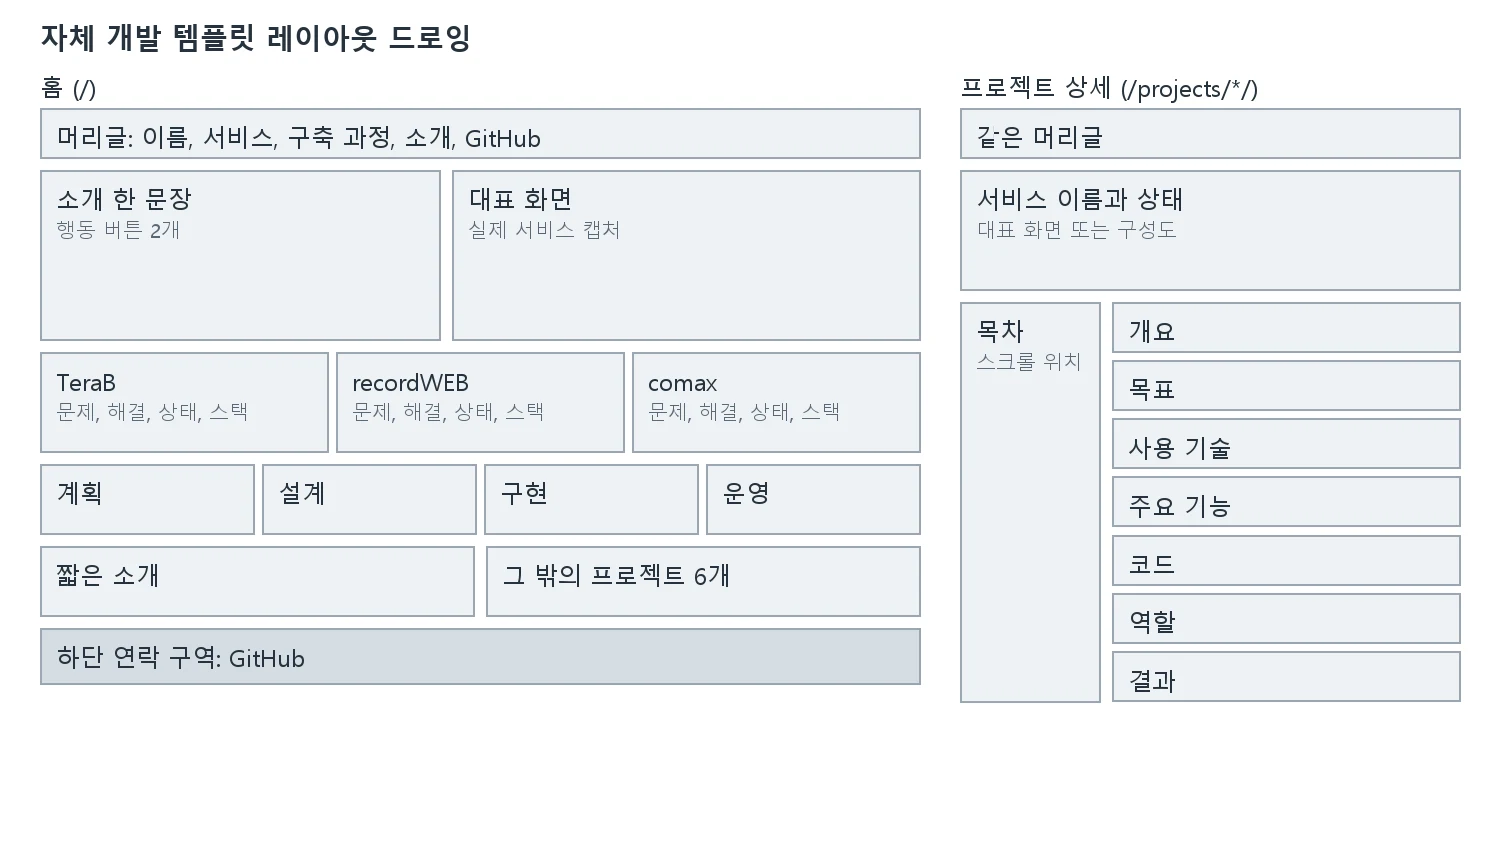
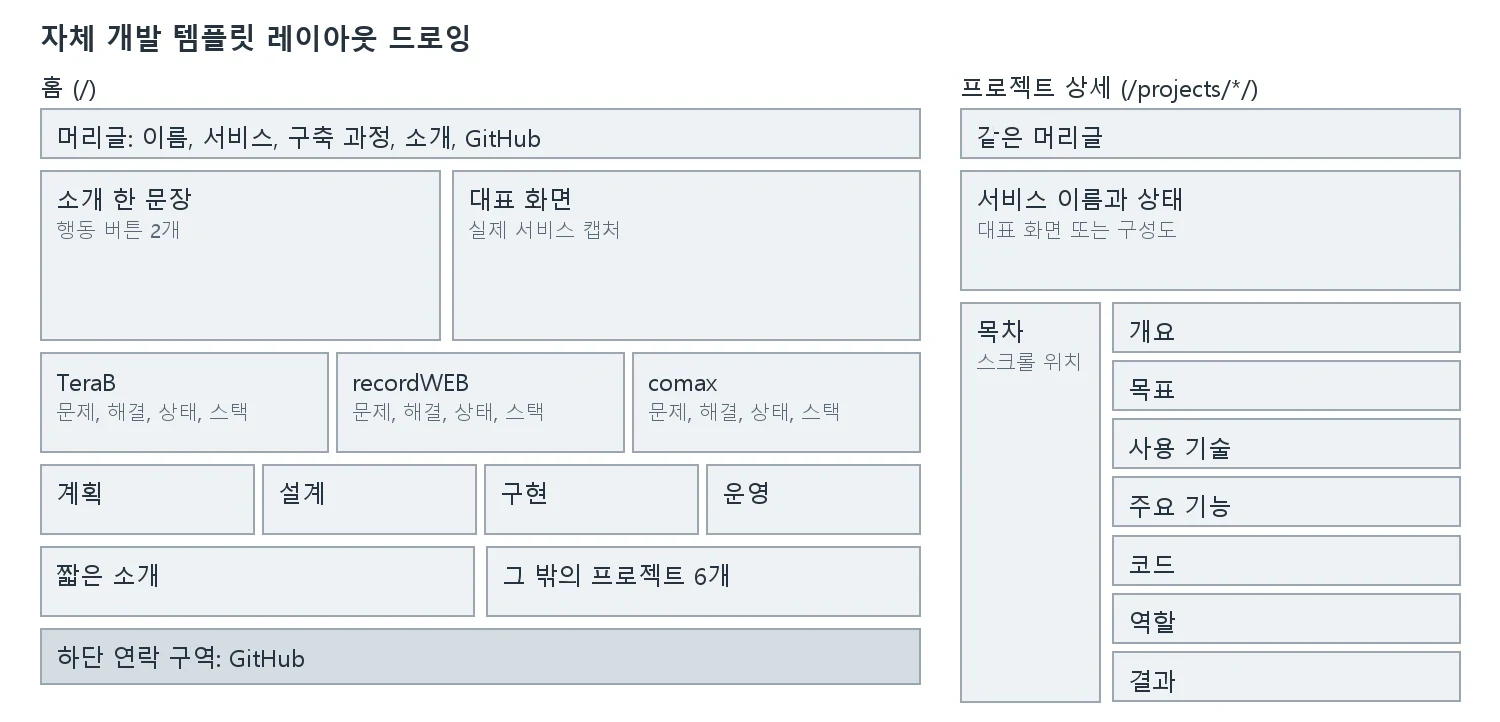
docs: 제작 계획을 제출한 계획수립 시트와 일치시킴
시트를 고친 뒤 페이지를 맞추지 않아 버전관리, 디자인 기준과 템플릿 선정 문구가
서로 달랐다. 상태 열은 시트에 없고 변경 기록과 모순되어 지운다.

- 시트의 측정 기준과 선정 문구를 그대로 옮기고 README 버전 규칙도 맞춤
- 표 낱말이 쪼개지는 원인인 overflow-wrap: anywhere를 표에서만 break-word로 변경
- 드로잉 아래 빈 여백을 잘라 내고 원본 링크 추가
- 머리메뉴를 "제작 계획"으로 통일, 변경 기록 표에 모바일 항목 이름 추가

diff --git a/plan/index.html b/plan/index.html
@@ -31,7 +31,7 @@
       <a href="/#services">서비스</a>
       <a href="/#process">구축 과정</a>
       <a href="/#about">소개</a>
-      <a href="/plan/" aria-current="page">계획</a>
+      <a href="/plan/" aria-current="page">제작 계획</a>
       <a href="https://github.com/idenn207">GitHub</a>
     </nav>
   </header>
@@ -64,8 +64,8 @@
           <tbody>
             <tr><th scope="row">콘텐츠</th><td>서비스 3개를 개요, 목표, 사용 기술, 주요 기능, 코드, 역할, 결과의 7항목(총 21칸)으로 모두 작성, 그 밖의 프로젝트 6개 요약</td></tr>
             <tr><th scope="row">배포</th><td>전체 경로 직접 접속 정상, 깨진 링크와 콘솔 오류 0건</td></tr>
-            <tr><th scope="row">버전관리</th><td>작업을 브랜치와 PR로 관리, 의미 없는 커밋 메시지 0건, a.b.c 형식 버전 태그 사용</td></tr>
-            <tr><th scope="row">디자인 및 UX</th><td>390, 820, 1440px에서 가로 넘침 0건, 모든 페이지의 머리글과 간격 일관 유지</td></tr>
+            <tr><th scope="row">버전관리</th><td>작업을 브랜치와 PR로 관리하고, 발견된 버그는 issue로 관리, Major.Minor.Patch 형식 버전 태그 사용</td></tr>
+            <tr><th scope="row">디자인 및 UX</th><td>390, 820, 1440px에서 반응형 렌더링, 모든 페이지의 머리글과 간격 일관 유지</td></tr>
             <tr><th scope="row">검색 정보</th><td>전체 경로에 title, description, canonical, 이미지 alt 작성</td></tr>
           </tbody>
         </table>
@@ -73,16 +73,16 @@
 
       <section id="template">
         <h2>템플릿 선정</h2>
-        <p><strong>자체 개발 테마</strong>를 선택했습니다. 순수 HTML, CSS, JavaScript로 직접 개발하고, 구조는 홈 1개, 프로젝트 상세 3개, 계획 1개, 404 페이지입니다.</p>
-        <p>랜딩 구성은 rs-team.com의 프로세스 단계와 실적 소개, coupin.io의 문제에서 해결로 이어지는 흐름을 참고하되, 문구와 이미지는 직접 작성합니다.</p>
+        <p><strong>자체 개발 테마</strong>를 선택했습니다. 포트폴리오용 랜딩 페이지이기 때문에 React, API 등의 기능이 필요 없다고 판단해 순수 HTML, CSS, JavaScript로 개발합니다. 구조는 홈 1개, 프로젝트 상세 3개, 계획 1개, 404 페이지입니다.</p>
+        <p>랜딩 구성은 rs-team.com(회사 소개 페이지)의 프로세스 단계와 실적 소개, coupin.io(랜딩 디자인 시스템 참고)의 문제에서 해결로 이어지는 흐름을 참고하되, 문구와 이미지는 직접 작성합니다.</p>
         <figure class="shot">
-          <img src="/assets/img/plan-drawing.webp" width="1500" height="860" loading="lazy" alt="자체 개발 템플릿 레이아웃 드로잉. 홈은 머리글, 소개 한 문장과 대표 화면, 서비스 3개, 구축 과정 4단계, 짧은 소개와 그 밖의 프로젝트 6개, 하단 연락 구역 순서이고, 프로젝트 상세는 머리글, 서비스 이름과 상태, 왼쪽 목차, 오른쪽 7항목 순서다.">
-          <figcaption>계획수립 단계의 레이아웃 드로잉입니다.</figcaption>
+          <a href="/assets/img/plan-drawing.webp"><img src="/assets/img/plan-drawing.webp" width="1500" height="722" loading="lazy" alt="자체 개발 템플릿 레이아웃 드로잉. 홈은 머리글, 소개 한 문장과 대표 화면, 서비스 3개, 구축 과정 4단계, 짧은 소개와 그 밖의 프로젝트 6개, 하단 연락 구역 순서이고, 프로젝트 상세는 머리글, 서비스 이름과 상태, 왼쪽 목차, 오른쪽 7항목 순서다."></a>
+          <figcaption>계획수립 시트에 넣은 레이아웃 드로잉입니다.</figcaption>
         </figure>
-        <h3>선정 사유</h3>
+        <h3>선정 이유</h3>
         <ul>
-          <li>평가 대상이 서비스 소개이므로, 범용 블로그 테마보다 프로젝트를 앞세우는 랜딩 구조가 목적에 맞습니다.</li>
-          <li>교안의 index.html, css, js 구조와 같고 빌드 과정이 없어 main 브랜치 배포로 바로 공개할 수 있습니다.</li>
+          <li>평가 대상이 서비스 소개이므로, 범용 블로그 테마보다 프로젝트를 앞세우는 랜딩 구조가 포트폴리오 목적에 더 맞습니다.</li>
+          <li>index.html, css, js 구조로 빌드 과정이 없어 main 브랜치 배포로 바로 운영할 수 있습니다.</li>
           <li>GitHub Pages는 정적 호스팅이므로 서버 없이 동작하는 구성이 안정적입니다.</li>
           <li>직접 개발하므로 디자인과 페이지 구성을 사이트 전체에서 일관되게 유지할 수 있습니다.</li>
         </ul>
@@ -91,14 +91,14 @@
       <section id="timeline">
         <h2>타임라인</h2>
         <table class="ledger">
-          <thead><tr><th scope="col">주차</th><th scope="col">범위</th><th scope="col">목표</th><th scope="col">완료 기준</th><th scope="col">상태</th></tr></thead>
+          <thead><tr><th scope="col">주차</th><th scope="col">범위</th><th scope="col">목표</th><th scope="col">완료 기준</th></tr></thead>
           <tbody>
-            <tr><th scope="row">8주차</th><td data-label="범위">주제 확정, 드로잉, 계획수립 제출</td><td data-label="목표">계획 확정</td><td data-label="완료 기준">계획수립 시트 제출</td><td data-label="상태">시트 작성 완료</td></tr>
-            <tr><th scope="row">9~10주차</th><td data-label="범위">저장소 정리, 홈과 상세 골격 1차 배포</td><td data-label="목표">v0.1.0</td><td data-label="완료 기준">전체 경로 공개, 교수 및 학생 평가용 URL 등록</td><td data-label="상태">진행 중</td></tr>
-            <tr><th scope="row">11~12주차</th><td data-label="범위">서비스 3개 7항목, 코드, 화면 캡처 작성</td><td data-label="목표">v0.5.0</td><td data-label="완료 기준">21칸 완성, README 작성</td><td data-label="상태">진행 중</td></tr>
-            <tr><th scope="row">13주차</th><td data-label="범위">디자인 통일, 반응형, 검색 정보, 링크 점검</td><td data-label="목표">v0.9.0</td><td data-label="완료 기준">측정 기준 충족</td><td data-label="상태">예정</td></tr>
-            <tr><th scope="row">14주차</th><td data-label="범위">발표, 피드백 수집과 우선순위 정리, 수행 시트 제출</td><td data-label="목표">1차 평가 대응</td><td data-label="완료 기준">피드백 기록 완료</td><td data-label="상태">예정</td></tr>
-            <tr><th scope="row">15주차</th><td data-label="범위">피드백 반영, 자율채점, 최종 제출</td><td data-label="목표">v1.0.0</td><td data-label="완료 기준">최종결과 시트 제출</td><td data-label="상태">예정</td></tr>
+            <tr><th scope="row">8주차</th><td data-label="범위">주제 확정, 드로잉, 계획수립 제출</td><td data-label="목표">계획 확정</td><td data-label="완료 기준">계획수립 시트 제출</td></tr>
+            <tr><th scope="row">9~10주차</th><td data-label="범위">저장소 정리, 홈과 상세 골격 1차 배포</td><td data-label="목표">v0.1.0</td><td data-label="완료 기준">전체 경로 공개, 교수 및 학생 평가용 URL 등록</td></tr>
+            <tr><th scope="row">11~12주차</th><td data-label="범위">서비스 3개 7항목, 코드, 화면 캡처 작성</td><td data-label="목표">v0.5.0</td><td data-label="완료 기준">21칸 완성, README 작성</td></tr>
+            <tr><th scope="row">13주차</th><td data-label="범위">디자인 통일, 반응형, 검색 정보, 링크 점검</td><td data-label="목표">v0.9.0</td><td data-label="완료 기준">측정 기준 충족</td></tr>
+            <tr><th scope="row">14주차</th><td data-label="범위">발표, 피드백 수집과 우선순위 정리, 수행 시트 제출</td><td data-label="목표">1차 평가 대응</td><td data-label="완료 기준">피드백 기록 완료</td></tr>
+            <tr><th scope="row">15주차</th><td data-label="범위">피드백 반영, 자율채점, 최종 제출</td><td data-label="목표">v1.0.0</td><td data-label="완료 기준">최종결과 시트 제출</td></tr>
           </tbody>
         </table>
         <p class="note">매주 1회 이상 커밋해 GitHub 활동 기록을 유지합니다.</p>
@@ -109,7 +109,7 @@
         <table class="ledger">
           <thead><tr><th scope="col">버전</th><th scope="col">날짜</th><th scope="col">내용</th></tr></thead>
           <tbody>
-            <tr><th scope="row">0.1.0</th><td>2026-11-02</td><td>Code Editor 페이지를 <a href="https://github.com/idenn207/idenn207.github.io/tree/legacy-code-editor">legacy-code-editor 태그</a>로 보존하고 포트폴리오로 교체. 별도 아카이브 경로 대신 홈의 요약 표로 구성.</td></tr>
+            <tr><th scope="row">0.1.0</th><td data-label="날짜"><time datetime="2026-11-02">2026-11-02</time></td><td data-label="내용">Code Editor 페이지를 <a href="https://github.com/idenn207/idenn207.github.io/tree/legacy-code-editor">legacy-code-editor 태그</a>로 보존하고 포트폴리오로 교체. 별도 아카이브 경로 대신 홈의 요약 표로 구성.</td></tr>
           </tbody>
         </table>
       </section>

diff --git a/css/style.css b/css/style.css
@@ -251,10 +251,12 @@ main h3 { margin: 32px 0 12px; }
 .split section + section { border-left: 1px solid var(--rule); }
 
 /* 표 */
-.ledger { width: 100%; border-collapse: collapse; }
+/* anywhere는 최소 폭을 없애 자동 열폭이 낱말 중간을 쪼갠다. 표에서는 넘칠 때만 끊는다 */
+.ledger { width: 100%; border-collapse: collapse; overflow-wrap: break-word; }
 .ledger th, .ledger td { padding: 10px 14px; border: 1px solid var(--rule); text-align: left; vertical-align: top; }
 .ledger thead th { background: var(--tint); color: var(--ink); font-size: 15px; font-weight: 700; white-space: nowrap; }
-.ledger tbody th { font-weight: 700; }
+.ledger tbody th { font-weight: 700; white-space: nowrap; }
+.ledger time { white-space: nowrap; }
 .ledger td a + a { margin-left: 12px; }
 .note { margin: 16px 0 0; }
 

diff --git a/projects/comax/index.html b/projects/comax/index.html
@@ -31,7 +31,7 @@
       <a href="/#services" aria-current="true">서비스</a>
       <a href="/#process">구축 과정</a>
       <a href="/#about">소개</a>
-      <a href="/plan/">계획</a>
+      <a href="/plan/">제작 계획</a>
       <a href="https://github.com/idenn207">GitHub</a>
     </nav>
   </header>

diff --git a/projects/recordweb/index.html b/projects/recordweb/index.html
@@ -31,7 +31,7 @@
       <a href="/#services" aria-current="true">서비스</a>
       <a href="/#process">구축 과정</a>
       <a href="/#about">소개</a>
-      <a href="/plan/">계획</a>
+      <a href="/plan/">제작 계획</a>
       <a href="https://github.com/idenn207">GitHub</a>
     </nav>
   </header>

diff --git a/projects/terab/index.html b/projects/terab/index.html
@@ -31,7 +31,7 @@
       <a href="/#services" aria-current="true">서비스</a>
       <a href="/#process">구축 과정</a>
       <a href="/#about">소개</a>
-      <a href="/plan/">계획</a>
+      <a href="/plan/">제작 계획</a>
       <a href="https://github.com/idenn207">GitHub</a>
     </nav>
   </header>

diff --git a/404.html b/404.html
@@ -31,7 +31,7 @@
       <a href="/#services">서비스</a>
       <a href="/#process">구축 과정</a>
       <a href="/#about">소개</a>
-      <a href="/plan/">계획</a>
+      <a href="/plan/">제작 계획</a>
       <a href="https://github.com/idenn207">GitHub</a>
     </nav>
   </header>

diff --git a/index.html b/index.html
@@ -32,7 +32,7 @@
       <a href="/#services">서비스</a>
       <a href="/#process">구축 과정</a>
       <a href="/#about">소개</a>
-      <a href="/plan/">계획</a>
+      <a href="/plan/">제작 계획</a>
       <a href="https://github.com/idenn207">GitHub</a>
     </nav>
   </header>

diff --git a/README.md b/README.md
@@ -45,10 +45,10 @@ python -m http.server 8000
 
 ## 버전 규칙
 
-버전은 `a.b.c` 형식이며 변경은 `/plan/`의 변경 기록에도 적습니다.
+버전은 `Major.Minor.Patch` 형식이며 변경은 `/plan/`의 변경 기록에도 적습니다. 발견된 버그는 issue로 관리합니다.
 
-- `a`: 사이트 전체 구조나 디자인을 바꿀 때
-- `b`: 페이지나 절을 추가할 때
-- `c`: 문구와 오류를 고칠 때
+- `Major`: 사이트 전체 구조나 디자인을 바꿀 때
+- `Minor`: 페이지나 절을 추가할 때
+- `Patch`: 문구와 오류를 고칠 때
 
 커밋 메시지는 Conventional Commits 형식에 한국어로 쓰고, 본문에 바꾼 이유를 적습니다.
